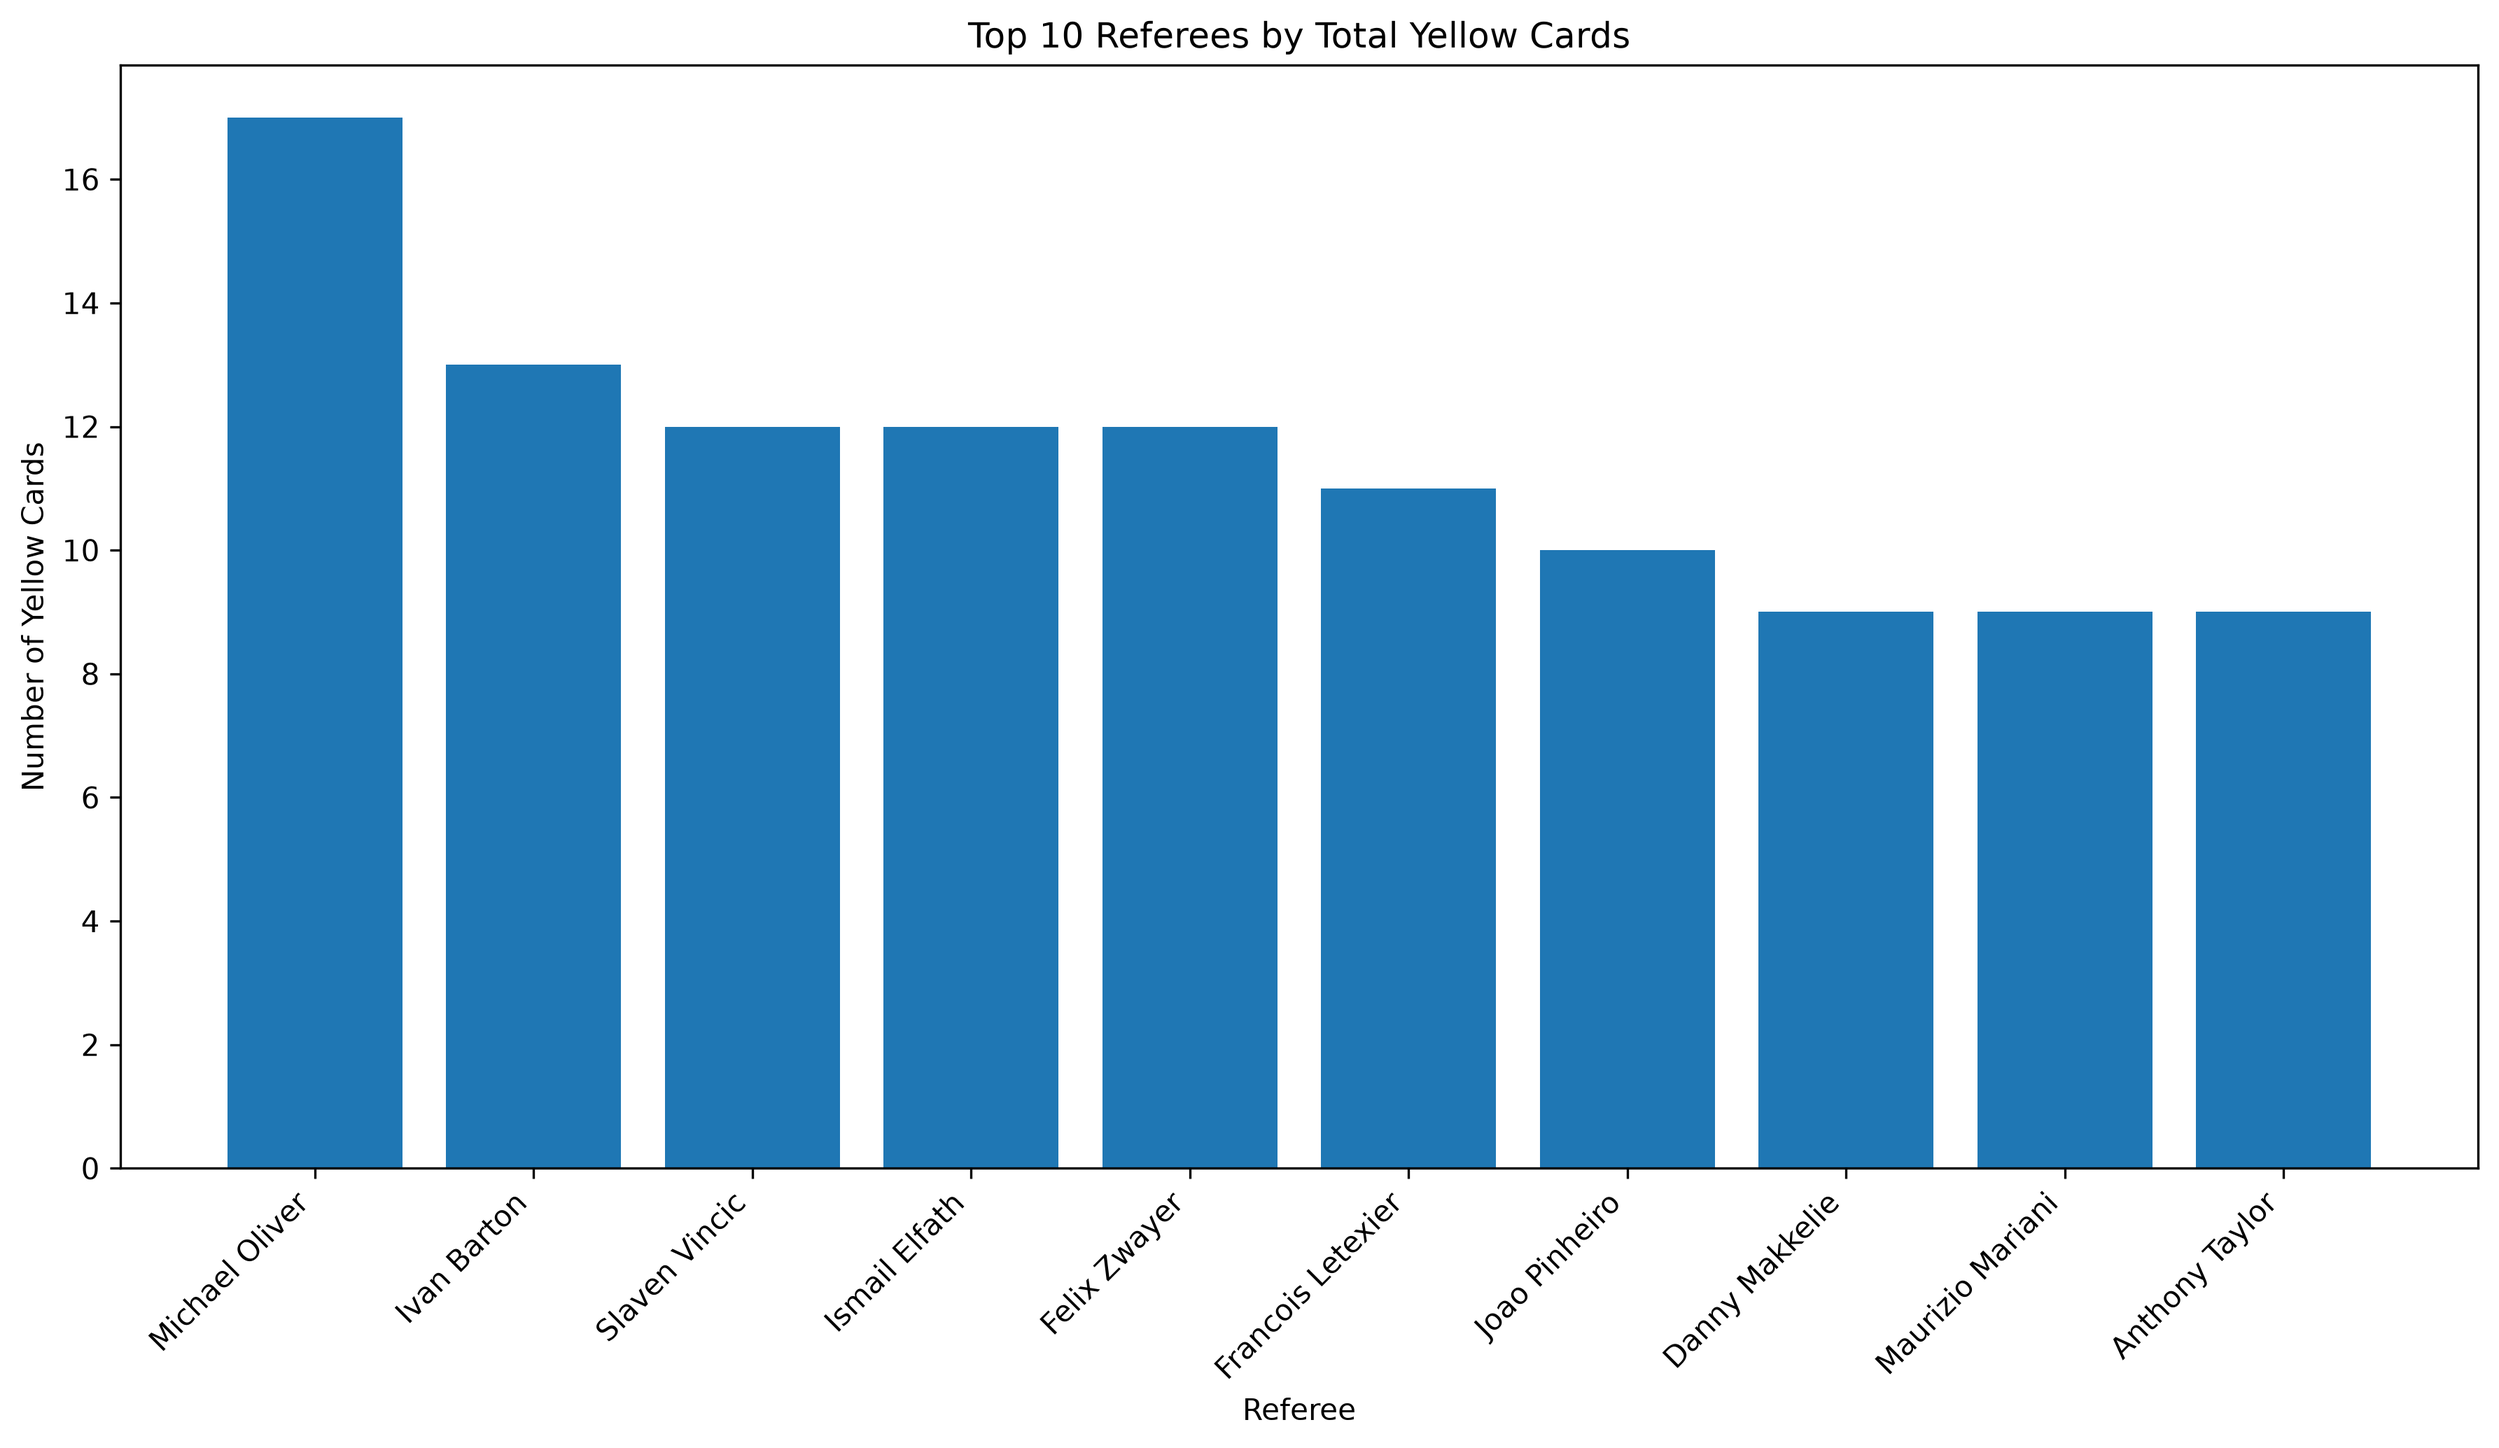
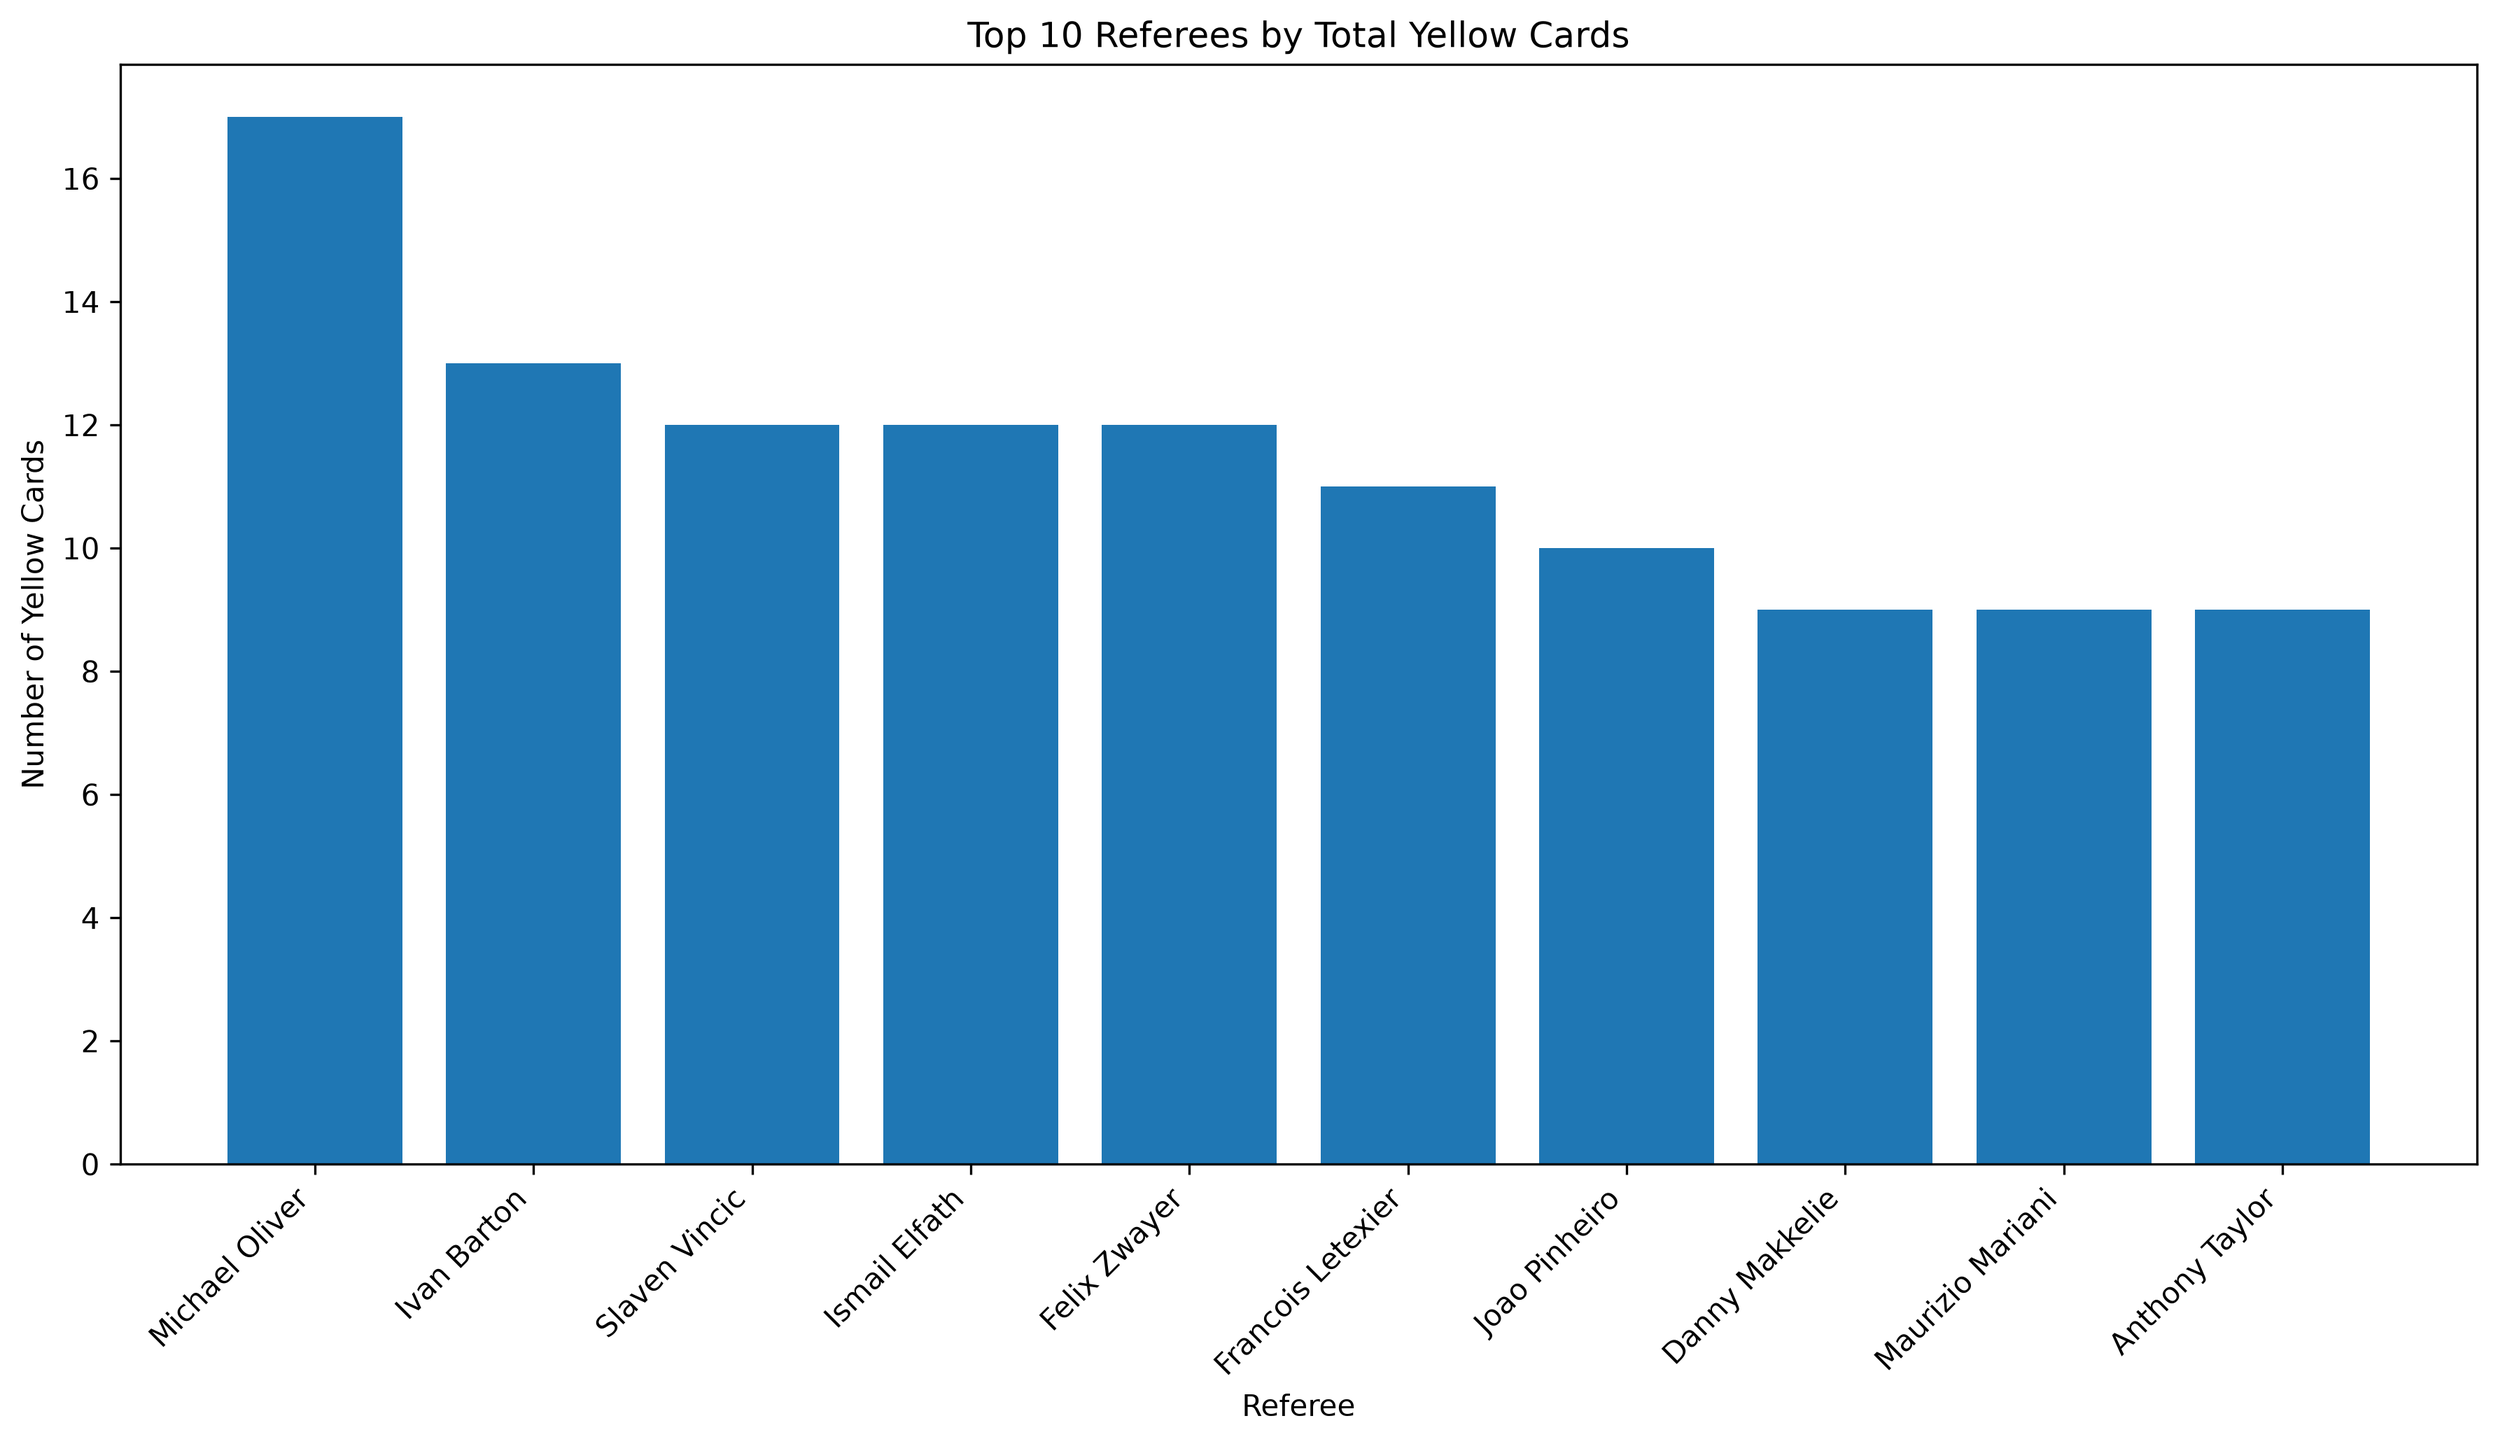
adding my part

Changed region(s): [[0.5287, 0.8376, 0.5598, 0.8686]]

diff --git a/assignment.py b/assignment.py
@@ -1,0 +1,118 @@
+import pandas as pd
+import numpy as np
+from scipy import stats
+import matplotlib
+matplotlib.use("Agg")
+import matplotlib.pyplot as plt
+
+# ---------------------------------------------------------------
+# 1. DATA WRANGLING
+# ---------------------------------------------------------------
+df = pd.read_csv("C:\\Users\\Nishan hamal\\Desktop\\foundation of data\\wc2026_golden_boot_scorers.csv")
+
+# Derived variable: scoring efficiency
+df["minutes_per_goal"] = df["minutes_played"] / df["goals"]
+
+# Tidy boolean flag
+df["semifinalist_team"] = df["semifinalist_team"].map({"Yes": True, "No": False})
+
+print("=" * 70)
+print("SAMPLE (Golden Boot contenders, goals >= 3), n =", len(df))
+print("=" * 70)
+print(df.to_string(index=False))
+
+group_semi = df.loc[df["semifinalist_team"], "goals"]
+group_non_semi = df.loc[~df["semifinalist_team"], "goals"]
+
+# ---------------------------------------------------------------
+# 2. DESCRIPTIVE STATISTICS
+# ---------------------------------------------------------------
+def describe(series, label):
+    print(f"\n--- Descriptive statistics: {label} (n={len(series)}) ---")
+    print(f"Mean goals   : {series.mean():.2f}")
+    print(f"Median goals : {series.median():.2f}")
+    print(f"Std dev      : {series.std(ddof=1):.2f}")
+    print(f"Min / Max    : {series.min()} / {series.max()}")
+    print(f"IQR          : {series.quantile(.25):.2f} - {series.quantile(.75):.2f}")
+
+print("\n" + "=" * 70)
+print("DESCRIPTIVE STATISTICS")
+print("=" * 70)
+describe(df["goals"], "All Golden Boot contenders")
+describe(group_semi, "Players from semi-finalist teams")
+describe(group_non_semi, "Players from non-semi-finalist teams")
+
+print("\n--- Minutes-per-goal (efficiency), whole sample ---")
+print(df["minutes_per_goal"].describe().round(2))
+
+# ---------------------------------------------------------------
+# 3. CONFIDENCE INTERVAL (95%) FOR MEAN GOALS - WHOLE SAMPLE
+# ---------------------------------------------------------------
+n = len(df)
+mean_goals = df["goals"].mean()
+sem_goals = stats.sem(df["goals"])  # standard error of the mean
+ci_low, ci_high = stats.t.interval(confidence=0.95, df=n - 1,
+                                    loc=mean_goals, scale=sem_goals)
+
+print("\n" + "=" * 70)
+print("95% CONFIDENCE INTERVAL - mean goals scored by a Golden Boot")
+print("contender in the WC2026 goalscorer population")
+print("=" * 70)
+print(f"Sample mean       : {mean_goals:.2f} goals")
+print(f"Standard error     : {sem_goals:.3f}")
+print(f"95% CI             : [{ci_low:.2f}, {ci_high:.2f}] goals")
+print("Interpretation: we are 95% confident the true mean number of goals")
+print("scored by a member of the WC2026 'leading scorers' population lies")
+print(f"between {ci_low:.2f} and {ci_high:.2f} goals.")
+
+# ---------------------------------------------------------------
+# 4. TWO-SAMPLE T-TEST (Welch, unequal variances)
+# ---------------------------------------------------------------
+t_stat, p_val = stats.ttest_ind(group_semi, group_non_semi, equal_var=False)
+
+print("\n" + "=" * 70)
+print("TWO-SAMPLE T-TEST (Welch): semi-finalist-team vs other players")
+print("=" * 70)
+print("H0: mean goals (semi-finalist team) = mean goals (other teams)")
+print("H1: mean goals (semi-finalist team) != mean goals (other teams)")
+print(f"Semi-finalist team players   : n={len(group_semi)}, mean={group_semi.mean():.2f}, sd={group_semi.std(ddof=1):.2f}")
+print(f"Non-semi-finalist team players: n={len(group_non_semi)}, mean={group_non_semi.mean():.2f}, sd={group_non_semi.std(ddof=1):.2f}")
+print(f"t-statistic = {t_stat:.3f}")
+print(f"p-value     = {p_val:.4f}")
+alpha = 0.05
+if p_val < alpha:
+    print(f"Result: p < {alpha} -> reject H0. There IS a statistically significant")
+    print("difference in average goals scored between the two groups.")
+else:
+    print(f"Result: p >= {alpha} -> fail to reject H0. No statistically significant")
+    print("difference in average goals scored between the two groups was found")
+    print("at the 5% significance level.")
+
+# Golden Boot winner call-out (top of the sample by goals, tie-break assists)
+winner = df.sort_values(["goals", "assists"], ascending=False).iloc[0]
+print("\n" + "=" * 70)
+print("GOLDEN BOOT WINNER (top scorer in the dataset)")
+print("=" * 70)
+print(f"{winner['player']} ({winner['team']}) - {winner['goals']} goals, "
+      f"{winner['assists']} assists in {winner['appearances']} appearances")
+
+# ---------------------------------------------------------------
+# 5. VISUALISATION
+# ---------------------------------------------------------------
+fig, axes = plt.subplots(1, 2, figsize=(12, 5))
+
+# Bar chart of top scorers
+top_sorted = df.sort_values("goals", ascending=True)
+axes[0].barh(top_sorted["player"], top_sorted["goals"],
+             color=["#c8102e" if s else "#4c72b0" for s in top_sorted["semifinalist_team"]])
+axes[0].set_xlabel("Goals scored")
+axes[0].set_title("WC2026 Golden Boot contenders\n(red = semi-finalist team)")
+
+# Boxplot comparison
+axes[1].boxplot([group_semi, group_non_semi], tick_labels=["Semi-finalist\nteam", "Other\nteam"])
+axes[1].set_ylabel("Goals scored")
+axes[1].set_title("Goals scored: semi-finalist vs other teams")
+
+plt.tight_layout()
+plt.savefig("wc2026_golden_boot_analysis.png", dpi=150)
+print("\nSaved chart to wc2026_golden_boot_analysis.png")
